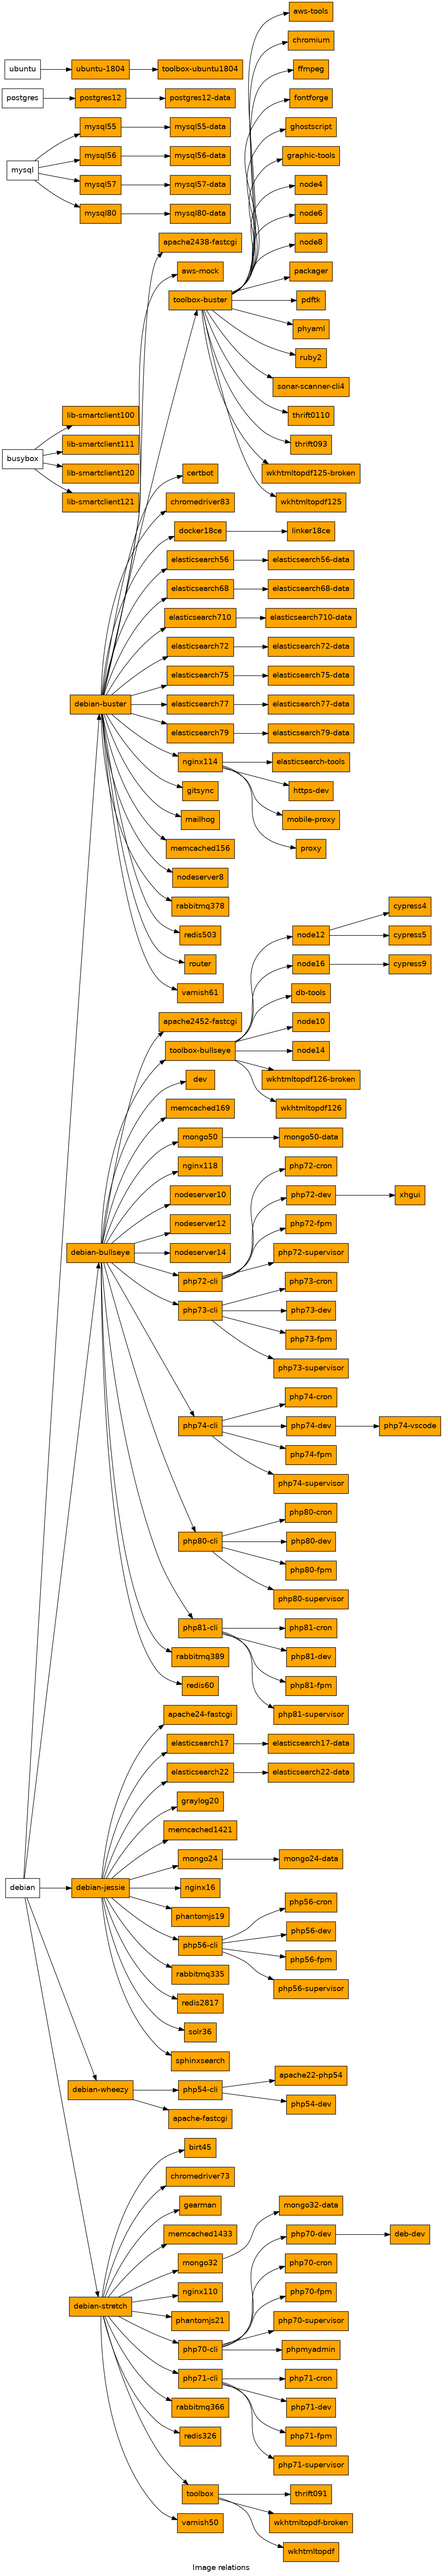
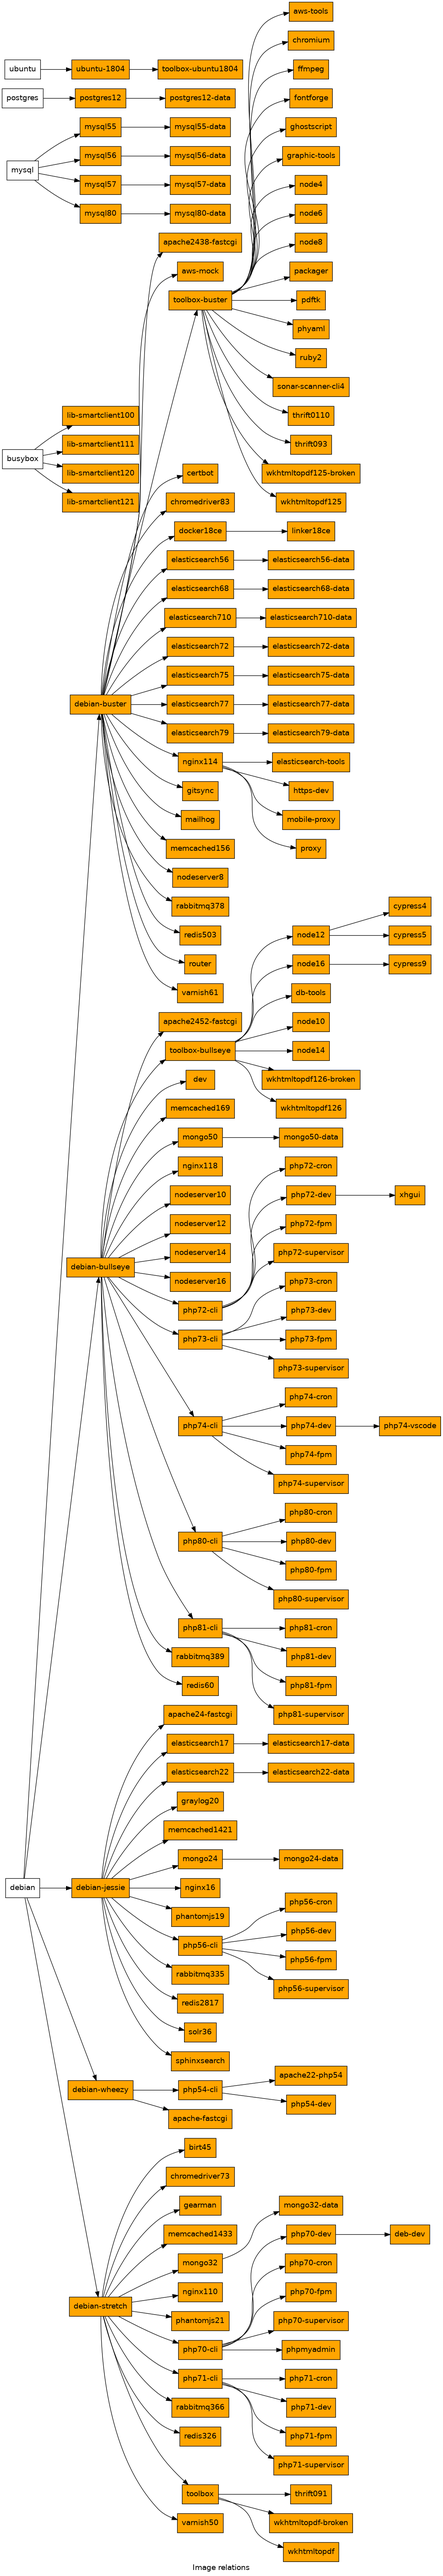
nodeserver16 image was created

diff --git a/nodeserver16/build/files/var/www/server.js b/nodeserver16/build/files/var/www/server.js
@@ -1,0 +1,12 @@
+var http = require('http');
+
+const PORT=3000;
+
+function handleRequest(request, response){
+        response.end('I am alive!');
+}
+
+var server = http.createServer(handleRequest);
+
+server.listen(PORT);
+

diff --git a/nodeserver16/README.md b/nodeserver16/README.md
@@ -1,0 +1,13 @@
+## Node server 16.x
+
+### Description
+A simple docker image containing node and npm, used to run npm targets. Like frontend servers
+
+### Internals
+There is a socat proxy added to this image, that tunnel 80 port to 3000. So all aplications runing on this server need to operate on port 3000
+
+### Environment variables
+* __NFQ_DOCUMENT_ROOT__:  Used to define starting work dir
+* __NFQ_NPM_RUN__: target name from package.json to launch on load
+* __NFQ_BACKEND_PORT__: the port node app will listen on so it can be redirected to port 80
+
